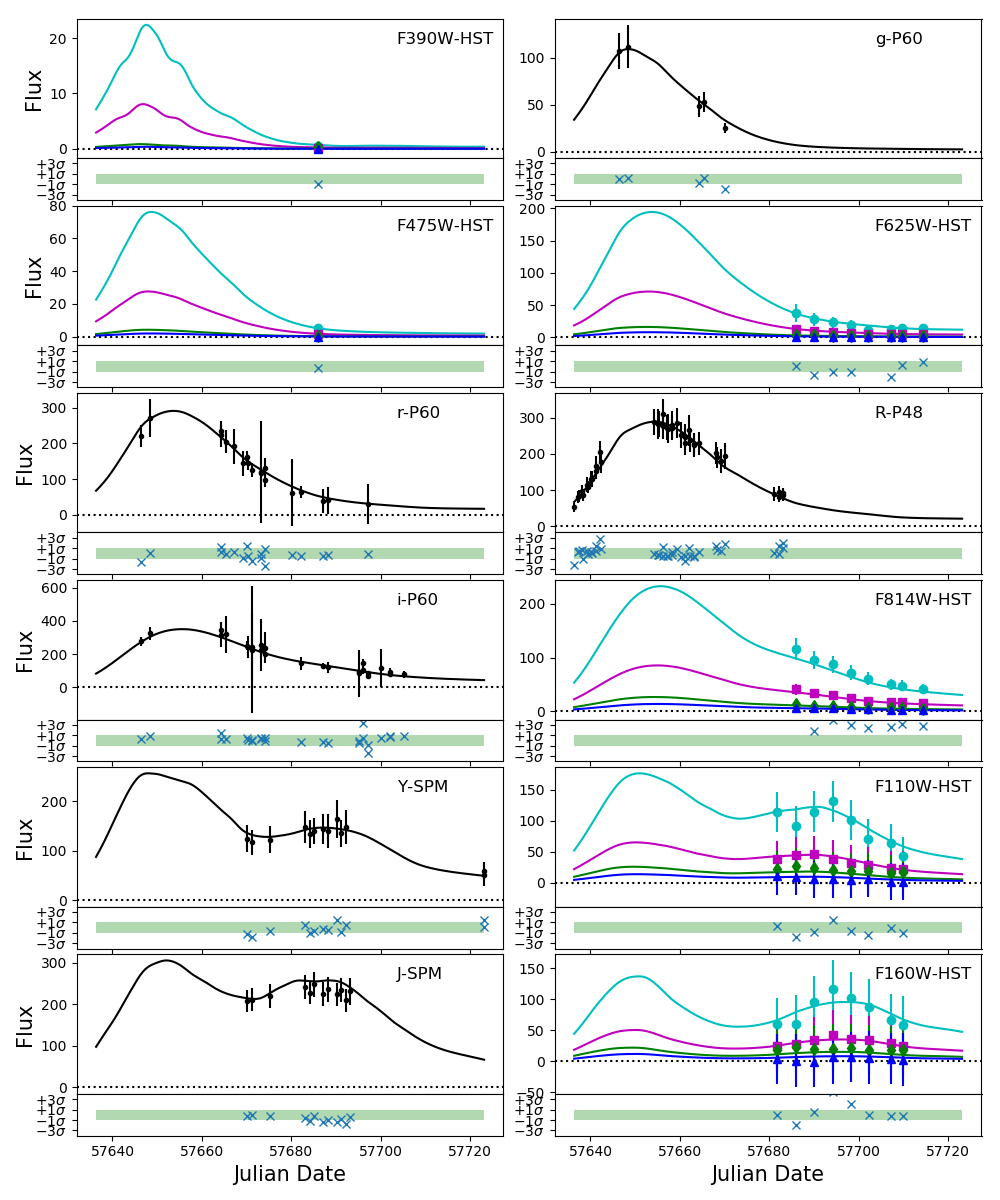
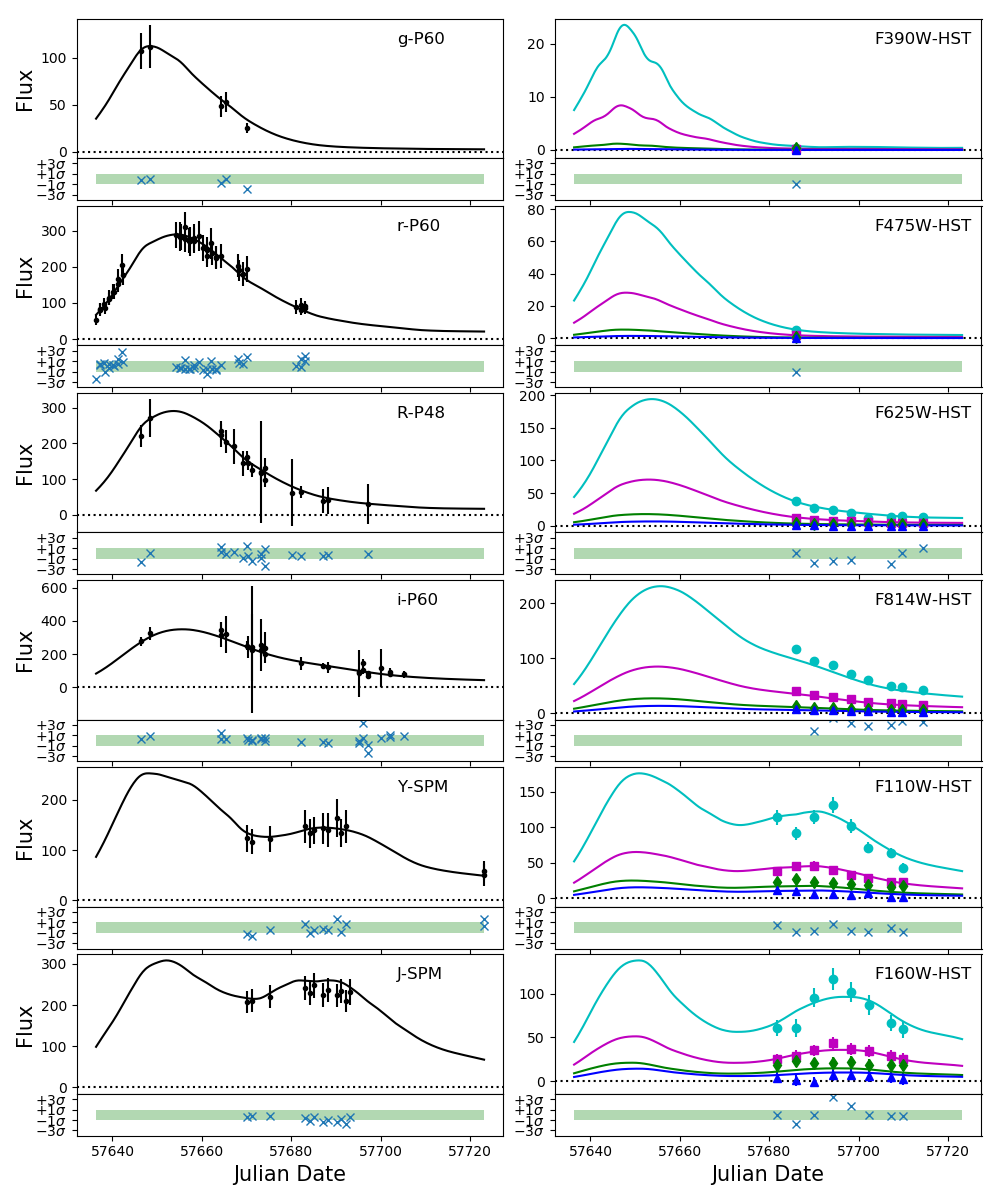
Reorganized a bit

diff --git a/geu_followup.tex b/geu_followup.tex
@@ -84,10 +84,11 @@
 
 \newcommand{\sd}[1]{\textcolor{green}{SD: #1}}
 \newcommand{\jj}[1]{\textcolor{blue}{JJ: #1}}
+\newcommand{\ag}[1]{\textcolor{red}{AG: #1}}
 
 % Title of the paper, and the short title which is used in the headers.
 % Keep the title short and informative.
-\title[Extinction and time-delay constraints from \geu]{Extinction and time-delay constraints from the first resolved strongly lensed Type Ia supernova \geu}
+\title[Lensing magnification and time-delay constraints from \geu]{Lensing magnification and time-delay constraints from the first resolved strongly lensed Type Ia supernova \geu}
 
 % The list of authors, and the short list which is used in the headers.
 % If you need two or more lines of authors, add an extra line using \newauthor
@@ -146,14 +147,15 @@ keyword1 -- keyword2 -- keyword3
 More than half a century has passed since
 \citet{1964MNRAS.128..307R} proposed  to measure the expansion rate of the universe, the Hubble parameter, using time delay measurements of multiply-imaged gravitationally lensed supernovae (\sne). However, discovering these rare events has proven very challenging and it is only thanks to 
 the recent developments in time domain astronomy that the first couple of resolved lensed supernovae have been detected. SN Refsdal \citep{2015Sci...347.1123K}, detected with the Hubble Space Telescope (HST), is a core-collapse \sn magnified by a cluster of galaxies, while 
-iPTF16geu \citep{2017Sci...356..291G}, the subject of this work, is split into four resolved images by an individual galaxy. Furthermore, it was spectroscopically classified as a Type Ia supernova,  i.e., it is well-suited to precision estimates of the magnification caused by the lensing galaxy. 
+iPTF16geu \citep[][G17]{2017Sci...356..291G}, the subject of this work, is split into four resolved images by an individual galaxy. Furthermore, it was spectroscopically classified as a Type Ia supernova,  i.e., it is well-suited to precision estimates of the magnification caused by the lensing galaxy. 
 
 The discovery of iPTF16geu highlighted the power of the wide-field surveys to discover lensed \sneia without the need of high-spatial observations, thanks to their "standard candle" nature. At $z=0.409$, the \sn was found to be 30 standard deviations too bright compared with the \snia population, which prompted us to observed the system from space with HST and with adaptive optics (AO) at VLT and Keck.  Here we report on the multi-wavelength follow-up observations carried out while the \sn was active in late 2016, as well as laser aided AO Near IR observations with Keck and HST observations after the SN had 
 faded below the detection limit.
 
-The data at hand is used to estimate the dimming by dust in the host galaxy, common to all four \sn images, and in the lensing galaxy for the individual images. This provides us with unique extinction measurements in the lensing elliptical galaxy at $z=0.216$ and we use the corrected lightcurves to measure the time delays between the four \sn images. The accurate image positions and the corresponding fluxes are used to model the lens. Unlike the case of strongly lensed AGNs, as the transient faded, we had an opportunity to verify the lensing model with the reconstruction of the distorted host galaxy image. 
-
-By comparing the model predictions of the flux ratios between \sn images with the reddening corrected observations, we assess the possibility that otherwise unaccounted  residuals are caused by lensing of substructures within the lensing galaxy, i.e., microlensing.  
+The photometric data at hand is used to estimate the dimming by dust in the host galaxy, common to all four \sn images, and in the lensing galaxy for the individual images. This provides us with robust extinction measurements in the lensing elliptical galaxy at $z=0.216$ and we use the corrected lightcurves to measure the lensing magnification of the \sn images, as well as the time delays between them. The accurate \sn image positions are used to model the lens, as described in an accompanying paper (M\"ortsell et al, in prep). 
+Unlike the case of strongly lensed AGNs, as the transient faded, we had an opportunity to verify the lensing model with the reconstruction of the distorted host galaxy image. 
+By comparing the model predictions of the flux ratios between \sn images with the reddening corrected observations, we assess the possibility that otherwise unaccounted  residuals are caused by lensing of substructures within the lensing galaxy, i.e., microlensing or millilensing.  
+In another accompnaying paper (Johansson et al, in prep) we present that spectroscopic observations of \geu.
 
 \section{Observations}
 \subsection{Hubble Space Telescope Wide Field Camera 3}
@@ -191,7 +193,7 @@ frame was obtained from the images preceding and following each exposure, after 
 Together with data presented in \scipap this resulted in a total of 3~epochs for the NIRC2/\jband and 2~epochs for the 
 NIRC2/\hband and NIRC2/\ksband bands, respectively.
 
-RATIR data desxription missing...
+\ag{JOEL, RATIR data description missing...}
 
 %%% PHOTOMETRY
 %%%
@@ -402,17 +404,18 @@ place PSFs along the Einstein radius on the residual images to estimate the scat
 % underlying background model flux for each \sn image, and add 10\,\% of this value to the error budget.  This is shown in the second error
 % column of Table~\ref{tb:resolvflux}.
 
-\subsection{Spectroscopy}
-\label{ssec-spectroscopy}
-In addition to the spectra presented in \scipap, we analyse the XSHOOTER spectra presented in \citet{2018MNRAS.473.4257C}. They found that \geu can be classified as a high-velocity ($V_{{\rm Si}{\sc ii} \lambda6355}^{\rm max} = 11950 \pm 140$ km s$^{-1}$), high- velocity gradient ($\odot{v} = -110.3 \pm 10.0$ km s$^{-1}$) and “core-normal” SN Ia. The strength of various features (measured though their pseudo-equivalent widths) argue against SN \geu being a faint, broad- lined, cool or shallow-silicon SN Ia.
+%Move this to the Johansson et al paper!
+%\subsection{Spectroscopy}
+%\label{ssec-spectroscopy}
+%In addition to the spectra presented in \scipap, we analyse the XSHOOTER spectra presented in \citet{2018MNRAS.473.4257C}. They found that \geu can be classified as a high-velocity ($V_{{\rm Si}{\sc ii} \lambda6355}^{\rm max} = 11950 \pm 140$ km s$^{-1}$), high- velocity gradient ($\odot{v} = -110.3 \pm 10.0$ km s$^{-1}$) and “core-normal” SN Ia. The strength of various features (measured though their pseudo-equivalent widths) argue against SN \geu being a faint, broad- lined, cool or shallow-silicon SN Ia.
 
-The spectra also reveal narrow absorption and emission lines, marked by the dashed vertical lines, from which the redshifts of the lens ($z = 0.2166 \pm 0.0001$, blue lines) and SN host galaxy ($z = 0.4090 \pm 0.0001$, red lines) were determined. Zoomed in view in rest-frame wavelengths of the Ca~{\sc ii} H~\&~K and Na~{\sc i}~D absorption features are shown in Fig.\ref{fig:spec_panels}, together with the $H_{\alpha}$, [N {\sc ii}] and O~{sc ii} emission lines. The $H_{\alpha}$ and [N {\sc ii}] emission lines at z = 0.2166 were used to fit the velocity dispersion of matter in the lensing galaxy, $\sigma_v = 163^{+41}_{-27}$ km/s (old number from \scipap).
+%The spectra also reveal narrow absorption and emission lines, marked by the dashed vertical lines, from which the redshifts of the lens ($z = 0.2166 \pm 0.0001$, blue lines) and SN host galaxy ($z = 0.4090 \pm 0.0001$, red lines) were determined. Zoomed in view in rest-frame wavelengths of the Ca~{\sc ii} H~\&~K and Na~{\sc i}~D absorption features are shown in Fig.\ref{fig:spec_panels}, together with the $H_{\alpha}$, [N {\sc ii}] and O~{sc ii} emission lines. The $H_{\alpha}$ and [N {\sc ii}] emission lines at z = 0.2166 were used to fit the velocity dispersion of matter in the lensing galaxy, $\sigma_v = 163^{+41}_{-27}$ km/s (old number from \scipap).
 
-For the lensing galaxy, we measure the equivalent widths (EW) of the Ca~{\sc ii} H~\&~K and Na~{\sc i}~D absorption features to be 9.93 \AA \, and 2.12 \AA \,, respectively. At the host galaxy redshift, we measure EWs of 2.25 \AA \, and 3.60 \AA \, for the Ca~{\sc ii} H~\&~K and Na~{\sc i}~D absorption features, respectively.
+%For the lensing galaxy, we measure the equivalent widths (EW) of the Ca~{\sc ii} H~\&~K and Na~{\sc i}~D absorption features to be 9.93 \AA \, and 2.12 \AA \,, respectively. At the host galaxy redshift, we measure EWs of 2.25 \AA \, and 3.60 \AA \, for the Ca~{\sc ii} H~\&~K and Na~{\sc i}~D absorption features, respectively.
 
-Using the relations from Barbon (1990), Turato et al. (2003) and Poznanski et al. (2011) that relate the Na~{\sc i}~D EW and color excess, $E(B-V)$, we find that $E(B-V)_{\rm lens} \sim 0.83 \pm 0.5$ mag and $E(B-V)_{\rm host} \sim 1.47 \pm 0.5$ mag. (It should be noted that these relations are only "well defined" for EW < 1.0 \AA \, and that the "theoretical" relation is between EW and optical depth, $\tau \sim A_V$, and that $A_V = R_V \times E(B-V)$ with $R_V$ =3.1 is usually assumed?). 
+%Using the relations from Barbon (1990), Turato et al. (2003) and Poznanski et al. (2011) that relate the Na~{\sc i}~D EW and color excess, $E(B-V)$, we find that $E(B-V)_{\rm lens} \sim 0.83 \pm 0.5$ mag and $E(B-V)_{\rm host} \sim 1.47 \pm 0.5$ mag. (It should be noted that these relations are only "well defined" for EW < 1.0 \AA \, and that the "theoretical" relation is between EW and optical depth, $\tau \sim A_V$, and that $A_V = R_V \times E(B-V)$ with $R_V$ =3.1 is usually assumed?). 
 
-To reduce the degeneracy between $E(B-V)_{\rm host}$ and $E(B-V)_{\rm lens}$ when fitting the light curves, we introduce a prior based on the ratio of the Na~{\sc i}~D absorption in the host and lens, such that $E(B-V)_{\rm host} = f \times E(B-V)_{\rm lens}$, with $1.6 \leq f \leq 1.8$.
+%To reduce the degeneracy between $E(B-V)_{\rm host}$ and $E(B-V)_{\rm lens}$ when fitting the light curves, we introduce a prior based on the ratio of the Na~{\sc i}~D absorption in the host and lens, such that $E(B-V)_{\rm host} = f \times E(B-V)_{\rm lens}$, with $1.6 \leq f \leq 1.8$.
 %Lens:
 %Poznanski, 2012 EBV= 4.2465252214
 %Poznanski, 2011 EBV= 0.830730337068
@@ -428,12 +431,12 @@ To reduce the degeneracy between $E(B-V)_{\rm host}$ and $E(B-V)_{\rm lens}$ whe
 % put stuff on BPT diagram?
 % far fetched host galaxy redshift(s)?
 
-\begin{figure*}
-	\centering
-	\caption{Zoomed in panels on narrow absorption and emission lines in the XSHOOTER spectrum
-	\label{fig:spec_panels}}
-	\includegraphics[width=\textwidth]{spec_panels.pdf}
-\end{figure*}
+%\begin{figure*}
+%	\centering
+%	\caption{Zoomed in panels on narrow absorption and emission lines in the XSHOOTER spectrum
+%	\label{fig:spec_panels}}
+%	\includegraphics[width=\textwidth]{spec_panels.pdf}
+%\end{figure*}
 
 % There are also additional spectra:
 %2016-10-09 NTT+EFOSC (PESSTO)
@@ -455,23 +458,25 @@ To reduce the degeneracy between $E(B-V)_{\rm host}$ and $E(B-V)_{\rm lens}$ whe
 
 \begin{figure}
     \centering
-    \includegraphics[width=.5\textwidth]{ColourExcess_11fe_comparison_fid.png}
-    \caption{The evolution of the colour excess (relative to an unextinguish template from the nearby, normal SN~2011fe) as a function of phase in the $F625W - F814W$ filters for the four images. Each Image's colour curve has been offset by an arbitrary amount for visibility. {\jj I think it is better to offset the points by some delta t or use different markers...}}
+    \includegraphics[width=.5\textwidth]{ColourExcess_11fe_comparison_timeOff}
+    \caption{The evolution of the colour excess (relative to an unextinguish template from the nearby, normal SN~2011fe) as a function of phase in the $F625W - F814W$ filters for the four images. Each Image has been shifted by a $\Delta_{\rm t}$ of $\sim$ 1 day for improved visibility.}
     \label{fig:colour_evolution}
 \end{figure}
 
-\subsection{Constructing the SN model}
-\sd{I just wrote a section here to describe the model before writing the results of the fits in Section~\ref{sec:results}}
+\input{parameters_tab.tex}
+\subsection{Building lightcurves from subtracted images}
+\ag{JOEL PLEASE ADD TEXT HERE}
+Here we describe Joel's subtractions.... explain motivation, mainly due to model 
+dependencies in the coarse pixel data....including pretty pictures.
+
+
+\section{Lightcurve fits}
+We combine the ground based data with the resolved photometry from HST to fit for the global lightcurve parameters: lightcurve shape, color excess from either intrinsic color variations or dimming by dust in the host galaxy. In addition, we use the multi-band lightcurves of the resolved 
+\sn images to fit for the lightcurve peaks and time offsets between the four \sn images, as well as extinction in the lensing galaxy for each individual line of sight. In total, 
 Here, we describe the SN model constructed to derive the time-delay, magnification and extinction parameters for iPTF16geu. We construct a multiple-image model for an SN~Ia using \texttt{sncosmo} with a \texttt{Hsiao} model \citep{2007ApJ...663.1187H}, which incorporates a large spectral library for a diverse range of SNe~Ia. iPTF16geu shows light curve properties consistent with normal SNe~Ia. For example, it shows a clear second maximum in the NIR (F110W, F160W) filters, as seen for nearby SNe. Accounting for time-dilation and K-correction, we find that the time of the second maximum (t$_2$)  29.3 $\pm$ 1.1 days after $B$-band maximum, consistent with the median $J$-band (the corresponding rest-frame filter) t$_2$ for nearby, normal, SNe~Ia \citep{2012A&A...537A..57B, 2015MNRAS.448.1345D}. Since t$_2$ is a distance independent measurement, this further justifies the choice of using a normal SN~Ia model to fit the iPTF16geu light curves. \sd{Is this subsection okay for describing the second maximum timing of 16geu?}
 
   We fit the model to the observations using a $\chi^2$ likelihood with two terms for the ground based and the HST data. For the ground based data we compare the sum of the models to the observations, whereas for the HST data we compare the individual images. 
-\begin{equation}
-\label{eq:chi}
-\begin{aligned}
-\chi ^2 &= \sum_{\lambda}^{\mathrm{Ground}}\frac{\left[\left(\sum_i^{N} F_i^{model}(t,\lambda)\right)-F^{data}(t,\lambda)\right]^2}{\sigma^2(t,\lambda)}+ \\
-&\quad \sum_{\lambda}^{\mathrm{HST}}\sum_i^{N}\frac{\left[F_i^{model}(t,\lambda)-F_i^{data}(t,\lambda)\right]^2}{\sigma_i^2(t,\lambda)},
-\end{aligned}
-\end{equation}
+
 where $F$ is the flux, $t$ is the epoch of the SN~Ia light curve, $N$ is the number of images and $\lambda$ is the effective wavelength of each filter. 
 
 For each of the four individual images, we apply an extinction correction for the host and lens galaxies as well as the Milky Way. We assume a standard MW reddening law \citep{1989ApJ...345..245C} for the MW, lens and host galaxies. For the MW, we set the slope of the reddening law, R$_V$ to 3.1, however, for the host and lens galaxies, we fix  R$_V$ to 2. This is using the slope of the luminosity-colour relation from the most updated compilations of cosmological samples \citep[see;][]{2018ApJ...859..101S,2018arXiv181102374D} which can be applied to iPTF16geu, since it shows distinct features of core-normal SNe~Ia \citep[e.g.,][]{2006PASP..118..560B}, used for cosmological constraints. Therefore, in our model fit, we include the following parameters 
@@ -482,14 +487,22 @@ For each of the four individual images, we apply an extinction correction for th
     \item The time of maximum $t_{0}$ for each of the four images, and hence, the time-delays between the images
     \item The magnification for each of the four images
 \end{itemize}
-
+\begin{equation}
+\label{eq:chi}
+\begin{aligned}
+\chi ^2 &= \sum_{\lambda}^{\mathrm{Ground}}\frac{\left[\left(\sum_i^{N} F_i^{model}(t,\lambda)\right)-F^{data}(t,\lambda)\right]^2}{\sigma^2(t,\lambda)}+ \\
+&\quad \sum_{\lambda}^{\mathrm{HST}}\sum_i^{N}\frac{\left[F_i^{model}(t,\lambda)-F_i^{data}(t,\lambda)\right]^2}{\sigma_i^2(t,\lambda)},
+\end{aligned}
+\end{equation}
 
 From the spectroscopic analysis described in Section~\ref{ssec-spectroscopy}
 we use a prior on the relation between the $E(B-V)_{\rm host}$  and $E(B-V)_{\rm lens, 1}$ \sd{I am not sure why this is only for Image 1, is the spectrum only for Image 1?}. We fit this model to the data using a nested sampling software, \texttt{nestle} implemented in \texttt{sncosmo}. 
 
+
+
 \begin{figure*}
     \centering
-    \includegraphics[width=.9\textwidth]{16geu_lcfit.png}
+    \includegraphics[width=.9\textwidth]{16geu_lcfit_magscale.png}
     \caption{Model fit to the photometry for iPTF16geu (see text for details). The ground based data are plotted in black whereas the HST data for Image 1 is in cyan, Image 2 in magenta, Image 3 in green and Image 4 in blue. The residuals from the best fit are shown in the panel under each filter. The errors for the HST data include the diagonal elements of the systematics covariance matrix added in quadrature to the statistical uncertainties. The filters are plotted in ascending order of effective wavelength. The Y-SPM data are scaled down by 30$\%$, as is discussed in the text {\bf Do discuss}.  }
     \label{fig:16geu_lc}
 \end{figure*}
@@ -497,80 +510,80 @@ we use a prior on the relation between the $E(B-V)_{\rm host}$  and $E(B-V)_{\rm
 \section{Results}
 \label{sec:results}
 In this section, we present the results of fitting the multiple-image SN model to the observations of iPTF16geu. For our analyses, we add an error term to the diagonal elements of the covariance matrix corresponding to 5$\%$ of the flux. This term represents systematic errors relating to unaccounted for effects, e.g. microlensing. We derive this term by requiring the reduced $\chi^2$ of the fit to be $\sim$ 1. 
- We present the resulting values of the time-delays between the images (Section~\ref{ssec-time_delay}) and the properties of the extinction due to dust in the host and lens galaxies (Section~\ref{ssec-extinction}). 
+ We present the resulting values of the time-delays between the images (Section~\ref{ssec-time_delay}) and the properties of the extinction due to dust in the host and lens galaxies (Section~\ref{ssec-extinction}). For the fiducial case we fit the time of maximum, amplitudes and colour excesses for the four SN images as well as the total to selection absorption, $R_V$ in the lens galaxy and the colour excess in the host galaxy. 
 
 
 
 
-\input{parameters_tab.tex}
 
 
 
-\subsection{Time-delays}
-\label{ssec-time_delay}
-We fit the time of maximum for the four images and calculate the time-delay for images 2,3,4 relative to Image 1  t$_{01}$, t$_{02}$, t$_{03}$, t$_{04}$. The summary of the parameter values is presented in Table~\ref{tab:params}. The time-delays for the three images 2,3,4 relative to Image 1 are -0.713, -1.408 and -0.637 days respectively. However, due to the large uncertainties in constraining the time-delays, they are consistent with a zero day time delay at the 95$\%$ C.L. 
 
-\subsection{Differential extinction}
+\subsection{Differential extinction and lensing magnification}
 \label{ssec-extinction}
-In this section, we determine the parameters for the extinction in the different images. The resulting parameters from the fit are summarised in Table~\ref{tab:params}. We find a moderate amount of extinction in Images 1 and 2 (0.166 and 0.208 respectively), whereas Image 3 has an extinction of 0.53 mag and Image 4 is heavily reddened with an $E(B-V)$ of 1.07 mag. The total amplification for iPTF16geu from this fit is 62.3 with a 68$\%$ credible region of (58.7, 66.81).
+In this section, we analyse the properties of the extinction of  iPTF16geu due to the dust in the host and the lens galaxies. The reddening parameters for our analysis include the $R_V$, $E(B-V)$ for the host galaxy and the $R_V$ and $E(B-V)$ for each image in the lens galaxy. 
+We start with the simplifying assumption that the lens $R_V$ is the same for each SN image. Furthermore, we set the host and lens $R_V$ to the best fit value from the cosmological fits i.e. $R_V \sim \beta -1 \sim 2$ \citep[e.g.][]{2018ApJ...859..101S}.  The resulting parameters from the fit are summarised in Table~\ref{tab:params}.
 
 \begin{figure}
     \centering
-    \includegraphics[width=.5\textwidth]{amplif_dist_forpaper.png}
+    \includegraphics[width=.5\textwidth]{amplif_dist_forpaper_linscale.png}
     \caption{The posterior distribution for the total amplification fitting the multiple-image \texttt{sncosmo} model described in the text. The median value is 62.3 with a 68$\%$ credible region between (58.7, 66.81).}
     \label{fig:amp}
 \end{figure}
 
-We test the impact of changing the input R$_V$ for the lens and host galaxies. For a lower R$_V$ of 1.5, we obtain a smaller total amplification of 52.5 and a 68$\%$ credible region of (48.5, 56.0), but higher $E(B-V)$ for Images 3 and 4. Conversely, for higher R$_V$ values of 3.1, the inferred total amplification is 73.1 and a 68$\%$ credible region of (66.10, 80.12). Hence, even when varying R$_V$ within a large range of observed values for SN hosts, the total magnification does not change by more than $\sim 1 \sigma$.
-The total amplification distribution for the fiducial case with R$_V = 2$ is plotted in Figure~\ref{fig:amp}. 
+The colour excess in the host galaxy is 0.322 $\pm$ 0.018 mag, which is assumed to be the same for each image since the difference in the light paths is very small for the images and hence, the dust properties are not expected to varying on those scales ($\sim$ few pc). For Images 1 and 2 we find a low value for the extinction of 0.19 $\pm$ 0.01 and 0.06, however, Images 3 and 4 have significant $E(B-V)$ of $\sim 0.7$ and $\sim  1.7$ mag. Setting the lens $R_V$ to 3.1, the canonical Milky Way value, we get lower $E(B-V)$ for each Image, as summarised in Table~\ref{tab:params}.
 
-{\bf How to connect this to the lens modeling}
-By modelling the lens galaxy, we find that the four images are of comparable brightness. However, fitting the \texttt{sncosmo} model described above, we find that while images 2 and 3 are of comparable brightness, image 4 is 9.5 times fainter than image 1. Here, we test whether this is a result of our assumptions regarding the properties of the host galaxy reddening. We assume that all four images have the same R$_V$, however, the different lines of sight do not, a priori, have to have the same reddening properties. Moreover, we find that the inferred $E(B-V)$ for Image 4 is lower than the $E(F625W - F814W)$ colour excess (Figure~\ref{fig:colour_evolution}). Hence,
-for test whether there is a combination of extinction parameters for Image 4 which can explain the difference in the brightness between Image 1 and 4, we fit the model with R$_V$ of Image 4 as a free parameter. We find that a low R$_V \sim 1$ and $E(B-V) \sim 2$ best fit the data, hence, by keeping R$_V$ free, the inferred $E(B-V)$ is consistent with the observed colour excess $E(F625W - F814W)$. However, there is a strong degeneracy between the R$_V$ and $E(B-V)$, which implies that a high R$_V$ and $E(B-V) \sim 2$ combination of parameters is within the 2 $\sigma$ limit allowed by the data. When fitting only for the parameters (i.e. the amplitude, $E(B-V)$ and R$_V$) of Image 4, we find that the amplitude of Image 1 is consistent with Image 4 within 2 $\sigma$. Thus, a large extinction could explain the difference in the brightness between Images 1 and 4.
-\begin{figure}
+We also compute the total amplification for iPTF16geu and test the impact of our assumptions on the reddening parameters. For our fiducial case with both host and lens galaxy $R_V = 2$, we obtain an median amplification of 61.20 with a 68$\%$ credible region of (56.30, 64.96). Assuming the Milky Way value of $R_V = 3.1$ for both the host and the lens galaxy, we get a total amplification of 74.77 with a 68$\%$ credible region (66.27, 79.82). Leaving the $R_V$ free for the lens galaxy (keeping host galaxy $R_V$ fixed to 2), the total amplification is 59.28 and the 68$\%$ credible region is (55.02, 62.49). Hence, we find that the total magnification does not change more than $\sim 1 -1.5 \sigma$ for different assumptions on the $R_V$ in the host and lens galaxy. The individual image magnifications (Table~\ref{tab:params}) are also robust to the assumptions on the reddening properties.
+
+
+%We test the impact of fixing the $R_V$ of the lens galaxy, firstly to the ensemble value for the SNe~Ia used in cosmological analysis, i.e. $R_V = 2$ and then to fixing it to the canonical Milky Way value of 3.1. We find that fixing the lens $R_V$ to higher than the best fit value results in lower inferred $E(B-V)$ values  for the SN images (see Table~\ref{tab:params}). The total amplification of the SN is 61.7 $\pm$ 5 and 71.4 $\pm$ 6 for the cases with $R_V$ fixed to 2 and 3, respectively, which are both consistent with the value obtained with lens $R_V$ as a free parameter {\bf SD: update numbers with higher resolution fit}. 
+
+%We test the impact of changing the input R$_V$ for the lens and host galaxies. For a lower R$_V$ of 1.5, we obtain a smaller total amplification of 52.5 and a 68$\%$ credible region of (48.5, 56.0), but higher $E(B-V)$ for Images 3 and 4. Conversely, for higher R$_V$ values of 3.1, the inferred total amplification is 73.1 and a 68$\%$ credible region of (66.10, 80.12). Hence, even when varying R$_V$ within a large range of observed values for SN hosts, the total magnification does not change by more than $\sim 1 \sigma$.
+
+
+%{\bf How to connect this to the lens modeling}
+%By modelling the lens galaxy, we find that the four images are of comparable brightness. However, fitting the \texttt{sncosmo} model described above, we find that while images 2 and 3 are of comparable brightness, image 4 is 9.5 times fainter than image 1. Here, we test whether this is a result of our assumptions regarding the properties of the host galaxy reddening. We assume that all four images have the same R$_V$, however, the different lines of sight do not, a priori, have to have the same reddening properties. Moreover, we find that the inferred $E(B-V)$ for Image 4 is lower than the $E(F625W - F814W)$ colour excess (Figure~\ref{fig:colour_evolution}). Hence,
+%for test whether there is a combination of extinction parameters for Image 4 which can explain the difference in the brightness between Image 1 and 4, we fit the model with R$_V$ of Image 4 as a free parameter. We find that a low R$_V \sim 1$ and $E(B-V) \sim 2$ best fit the data, hence, by keeping R$_V$ free, the inferred $E(B-V)$ is consistent with the observed colour excess $E(F625W - F814W)$. However, there is a strong degeneracy between the R$_V$ and $E(B-V)$, which implies that a high R$_V$ and $E(B-V) \sim 2$ combination of parameters is within the 2 $\sigma$ limit allowed by the data. When fitting only for the parameters (i.e. the amplitude, $E(B-V)$ and R$_V$) of Image 4, we find that the amplitude of Image 1 is consistent with Image 4 within 2 $\sigma$. Thus, a large extinction could explain the difference in the brightness between Images 1 and 4.
+\begin{figure*}
     \centering
-    \includegraphics[width=.5\textwidth]{corner_amp_Image4.png}
-    \caption{The corner plot showing the correlation between the amplitude, $E(B-V)$ and R$_V$ for Image 4. The blue points correspond to the amplitude of Image 1 and the extinction of $E(B-V) = 2$ with R$_V = 2$. The amplitude for Image 1 is within the 2 $\sigma$ limit of the distribution of the amplitude for Image 4.}
+    \includegraphics[width=.4\textwidth]{corner_plots/corner_samples_1.png}
+    \includegraphics[width=.4\textwidth]{corner_plots/corner_samples_2.png}
+    \includegraphics[width=.4\textwidth]{corner_plots/corner_samples_3.png}
+    \includegraphics[width=.4\textwidth]{corner_plots/corner_samples_4.png}
+    \caption{The figure shows the correlations between the amplification of each of the four images (normalised the median amplification of the faintest image, i.e. image 4) and reddening properties ($R_V$, $E(B-V)$). Images 1,2 and 3 have weak to no constraints on the $R_V$, however, for Image 4 we can place an upper limit on the $R_V$ of 3.2 at the 95$\%$ C.L. However, despite the weak constraints on the $R_V$, the amplification for each image is well-constrained. While Image 3 has a similar amplification to Image 4, Images 1 and 2 are $\sim$ 10 and $\sim$ 3 times brighter than Image 4, likely requiring an additional source of magnification.}
     \label{fig:corner_Image4}
-\end{figure}
- 
+\end{figure*}
+ \subsection{Time-delays}
+\label{ssec-time_delay}
+We fit the time of maximum for the four images and calculate the time-delay for images 2,3,4 relative to Image 1  t$_{01}$, t$_{02}$, t$_{03}$, t$_{04}$. The summary of the parameter values is presented in Table~\ref{tab:params}. The time-delays for the three images 2,3,4 relative to Image 1 are -0.713, -1.408 and -0.637 days respectively. However, due to the large uncertainties in constraining the time-delays, they are consistent with a zero day time delay at the 95$\%$ C.L. 
 
+\subsubsection{Model-independent time-delays}
+In addition to the model fit above, we also derive time-delays from the light curves without assuming an SN model. SNe~Ia have a distinct light curve morphology showing a second maximum $\sim$ few weeks after the first, we use the timing of this feature to derive constraints on $\Delta_t$. Since Images 1 and 2 are the brightest, the NIR light curves only have high enough signal to noise for these two images to derive a time-delay. We use two different methods to fit the data. Firstly, we derive $\Delta_{\rm t}$ using a Gaussian Process (GP) smoothing to the light curve. We use the Matern32 kernel implemented within the \texttt{GPy} package \citep{gpy2014}. We also use a cubic spline interpolation to compare with the GP results.
 
-\subsection{Future observations of similar glSNe~Ia systems}
+From our fits to the F110W  we derive time-delays of 2.54 $\pm$ 1.18 days and 0.37 $\pm$ 0.97 days which are consistent with zero time-delay and the inferred values from the model fits. 
+\ag{NOT sure about this section. The obvious question is why only mention 110 and not e.g 160? Need to discuss caveats}
+
+\section{Lensing from sub-structures}
+\ag{Here we need an exectuve summary of Edvard's paper and present the case for why images 1 and 2
+are deviant, afterextinction correction}
+
+From Table~\ref{tab:params}, we report the values of the magnifications for each individual image. We find that Image 1 is the brightest and 4 is the faintest. Lens models of the system \citep[e.g.][M{\"o}rtsell et al. in prep.]{2017ApJ...835L..25M} suggest that the SN images would have very similar brightnesses since the SN images are symmetric around the lens. We test whether this could be a result of differential extinction, i.e. a difference in the $R_V$ for the dust in the region around Images 1 and 4. Assuming a different $R_V$ for Images 1 and 4, in this case setting it to extreme values of $R_V = 1$ and $R_V = 5$ for Images 1 and 4 respectively. We find that Image 4 is still fainter than Image 1 by a factor $\sim$ 6 and the best fit value compensates for the high input $R_V$ with a lower inferred $E(B-V)$. Hence, differential extinction is an unlikely explanation for the discrepancy between the observed and modelled image brightness ratios. Additionally, we fit for two different $R_V$'s in the lens galaxy, one for Image 1 and the other for Images 2,3,4. For this case, Image 4 is $\sim$ a factor 9 fainter than Image 1, since the $R_V$ for Image 4 is $1.2 \sim 1.3$ whereas the best fit $R_V$ of Image 1 $2.9 \sim 0.30$. The $R_V$ for Image 1 is  This conclusion is consistent with the symmetry of the system which would indicate that differential extinction is unlikely.
+
+\section{Implications for observations of future strongly lensed \sn}
 We note here that the resolved observations of the multiple images only began $\sim$ 2 weeks after maximum light, hence, the peak in the HST filters is not well determined. Here, we analyse what the constraints on the time-delay and extinction parameters would be if we were to obtain observations close to the peak. 
 We use the best fit model for iPTF16geu to extrapolate the observations near maximum light. We generate ten observations uniformly in the phase region between 10 and 30 days from the first iPTF observation. We conservatively assume an error on each point to be drawn from a uniform distribution given by the errors on the observed post-maximum epochs. Since the SN is brighter at maximum light we would expect smaller errors on the fluxes. Under these assumptions we fit the above mentioned \texttt{sncosmo} model to the simulated data. 
 We find that the maximum light data significantly improve the constraints on the time delays, allowing a $\sim$ 17$\%$ measurement of the time delay, or 4 hour per day which is a significant improvement compared to the 70$\%$ errors from the current measurements. We also find that the data will improve our constraints on the $E(B-V)$ for the images 2, 3, 4 by a factor 3.5, 2.5 and 6, making the constraints on the extinction parameters significantly more robust.  
 
-%Figures and tables should be placed at logical positions in the text. Don't
-%worry about the exact layout, which will be handled by the publishers.
-%
-%Figures are referred to as e.g. Fig.~\ref{fig:example_figure}, and tables as
-%e.g. Table~\ref{tab:example_table}.
-
-% Example figure
-%\begin{figure}
-%	To include a figure from a file named example.*
-%	Allowable file formats are eps or ps if compiling using latex
-%	or pdf, png, jpg if compiling using pdflatex
-%	\includegraphics[width=\columnwidth]{example}
-%   \caption{This is an example figure. Captions appear below each figure.
-%	Give enough detail for the reader to understand what they're looking at,
-%	but leave detailed discussion to the main body of the text.}
-%   \label{fig:example_figure}
-%\end{figure}
 
 
 
 \section{Conclusions}
 
-%The last numbered section should briefly summarise what has been done, and describe
-%the final conclusions which the authors draw from their work.
+
 
 \section*{Acknowledgements}
 
-%The Acknowledgements section is not numbered. Here you can thank helpful
-%colleagues, acknowledge funding agencies, telescopes and facilities used etc.
-%Try to keep it short.
+
 
 %%%%%%%%%%%%%%%%%%%%%%%%%%%%%%%%%%%%%%%%%%%%%%%%%%
 
@@ -690,16 +703,7 @@ epoch from Nov 22, 2016 was excluded from the fits since this was found to devia
 \input{psf}
 \end{table}
 
-%\begin{figure*}
-%\centering
-%\includegraphics[width=\textwidth]{wfc3_psf_profiles.pdf}
-%\caption{%
-%	Stars observed between 2010 and 2017.  Each point shows the normalized pixel value for an individual observation of a star which
-%	are represented by the different colors.  The fitted PSF amplitude for each star was used to normalized the pixel values.  The solid
-%	lines show the fitted PSF profiles for each filter.
-%	\label{fig:psf}
-%}
-%\end{figure*}
+
 
 \begin{figure}
 \centering

diff --git a/parameters_tab.tex b/parameters_tab.tex
@@ -1,15 +1,29 @@
-\begin{table*}
+ \begin{table*}
 \centering
-\caption{This table summarises the resulting best fit parameters by fitting an \texttt{sncosmo} model to the ground-based and HST observations. For each image, we present the t$_{max}$ (relative to image 1), host galaxy colour excess (which is treated as being the same for each image), the lens galaxy colour excess as well as the magnification for each image (given as the 68$\%$ credible region of the posterior distribution).}
+\caption{This table summarises the resulting best fit parameters by fitting an \texttt{sncosmo} model to the ground-based and HST observations. For each image, we present the time of maximum, t$_{max}$ (relative to image 1), host galaxy colour excess (which is treated as being the same for each image), the lens galaxy colour excess as well as the magnification for each image (given as the 68$\%$ credible region of the posterior distribution). These parameters are reports for the case with $R_V$ for the lens fixed to the canonical value of 3.1 for the Milky Way as well as the case with the lens $R_V$ as a free parameter.}
 \begin{tabular}{|c|c|c|c|c|}
 \hline
 Parameter & Image 1 & Image 2 &  Image 3 & Image 4 \\
 \hline\hline
-t$_{max}$ &  57653.25 ($\pm$ 0.008) & -0.713 ($\pm$  0.848) & -1.408  ($\pm$ 1.03) & -0.637 ($\pm$ 1.344) \\
-E(B-V)|$_{\rm host}$ & 0.243 ($\pm$ 0.014) & Same as Image 1 & Same as Image 1 & Same as Image 1  \\
-E(B-V)|$_{\rm lens}$ &  0.166 ($\pm$ 0.0189) &  0.157 ($\pm$ 0.08) & 0.537 ($\pm$ 0.131) & 1.07 ($\pm$ 0.303) \\
-Magnification & (-4.001, -3.801) & (-2.951,-2.701)  &  (-2.283, -1.9205) & (-1.679, -1.212)
+ {\bf t$_{max}$ (fixed lens, host $R_V = 2$)} & {\bf 57653.25 ($\pm$ 0.35)} & {\bf -0.811 ($\pm$  0.828)} & {\bf -1.483  ($\pm$ 1.06)} & {\bf -0.148 ($\pm$ 1.568)} \\
+t$_{max}$ (free lens $R_V$, host $R_V$ = 2) &  57653.25 ($\pm$ 0.35) & -0.354 ($\pm$  0.745) & -1.731  ($\pm$ 0.928) & -0.099 ($\pm$ 1.547) \\
+t$_{max}$ (fixed lens, host $R_V = 3.1$) &  57653.25 ($\pm$ 0.35) & -0.811 ($\pm$  0.828) & -1.483  ($\pm$ 1.06) & -0.148 ($\pm$ 1.568) \\
+
+
+{\bf E(B-V)|$_{\rm host}$ (fixed lens, host $R_V = 2$)}   &  {\bf 0.322 ($\pm$ 0.018)} &   {\bf Same as Image 1} & {\bf Same as Image 1} & {\bf Same as Image 1}  \\
+E(B-V)|$_{\rm host}$  (free lens $R_V$, host $R_V$ = 2) & 0.322 ($\pm$ 0.018) & Same as Image 1 & Same as Image 1 & Same as Image 1  \\
+E(B-V)|$_{\rm host}$  (fixed lens, host $R_V = 3.1$)& 0.198 ($\pm$ 0.013) & Same as Image 1 & Same as Image 1 & Same as Image 1  \\
+
+{\bf E(B-V)|$_{\rm lens}$(fixed lens, host $R_V = 2$)}  &  {\bf 0.189 ($\pm$ 0.010)} &  {\bf 0.014 ($\pm$ 0.083)} & {\bf 0.388 ($\pm$ 0.185)} & {\bf 0.868 ($\pm$ 0.308)} \\
+
+E(B-V)|$_{\rm lens}$(free lens $R_V$, host $R_V$=2)  &  0.189 ($\pm$ 0.010) &  0.074 ($\pm$ 0.104) & 0.578 ($\pm$ 0.296) & 1.522 ($\pm$ 0.504) \\
+E(B-V)|$_{\rm lens}$ (fixed lens, host $R_V = 3.1$)  &  0.162 ($\pm$ 0.009) &  0.015 ($\pm$ 0.057) & 0.264 ($\pm$ 0.113) & 0.541 ($\pm$ 0.172) \\
+
+{\bf Magnification (fixed lens, host $R_V = 2.0$)} & {\bf (-3.975, -3.82)} & {\bf (-2.899, -2.744)} & {\bf (-2.046, -1.891)} & {\bf (-1.75, -1.595)}
 \\
+Magnification (free lens $R_V$) & (-3.958, -3.82) & (-2.903, -2.765) & (-1.877, -1.739) & (-1.52, -1.381)
+\\
+Magnification (fixed lens, host $R_V = 3.1$) & (-4.164, -3.962) & (-3.134, -2.932) & (-2.366, -2.164) & (-2.076, -1.874) \\
 
 \hline
 \end{tabular}

diff --git a/main.tex b/main.tex
@@ -3,3 +3,4 @@
 \begin{document}
 (Type your content here.)
 \end{document}
+https://www.overleaf.com/17131098vjykzzmmrvxd
